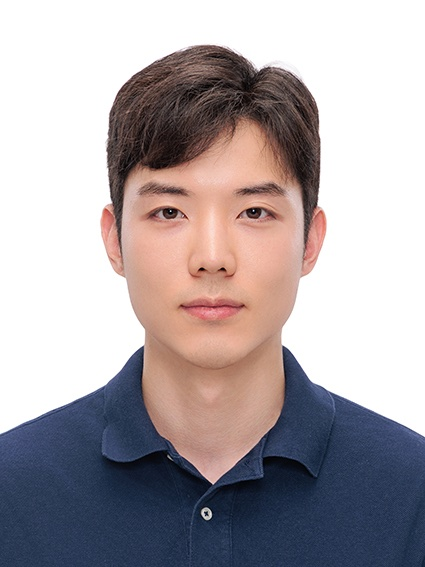
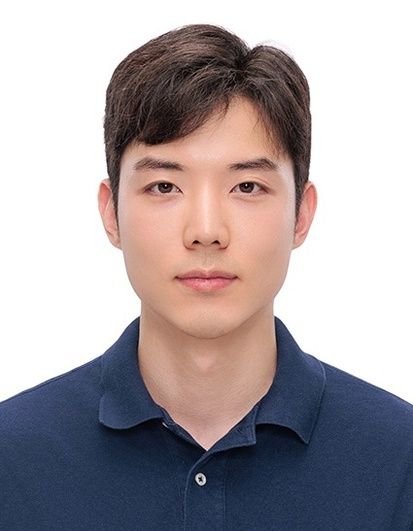
Update: img & members category(ms,interns)

diff --git a/_members/Seongdo_Kim.md b/_members/Seongdo_Kim.md
@@ -2,9 +2,9 @@
 layout: member_profile
 title: Seongdo Kim
 description: Internship 2024-Now
-img: assets/img/icon.png # assets/img/members/profile_jykim.jpg
-# importance: 1
-category: Students
+img: assets/img/members/profile_sdkim.jpg # assets/img/members/profile_jykim.jpg
+importance: 1
+category: Undergraduate research interns
 related_publications: false
 
 profile:

diff --git a/_members/Wooyeol_Baek.md b/_members/Wooyeol_Baek.md
@@ -3,8 +3,8 @@ layout: member_profile
 title: Wooyeol Baek
 description: Internship 2024-Now
 img: assets/img/members/profile_wybaek.jpg # assets/img/members/profile_jykim.jpg
-# importance: 1
-category: Students
+importance: 3
+category: Undergraduate research interns
 related_publications: false
 
 profile:

diff --git a/_members/Semin_Kim.md b/_members/Semin_Kim.md
@@ -3,8 +3,8 @@ layout: member_profile
 title: Semin Kim
 description: Internship 2024-Now
 img: assets/img/members/profile_smkim.jpg # assets/img/members/profile_jykim.jpg
-# importance: 1
-category: Students
+importance: 2
+category: Undergraduate research interns
 related_publications: false
 
 profile:

diff --git a/_members/Lee.md b/_members/Lee.md
@@ -1,10 +1,10 @@
 ---
 layout: member_profile
 title: 현수 Lee
-description: MS 2024-Now
+description: MS 2025-Now
 img: assets/img/icon.png # assets/img/members/profile_jykim.jpg
-# importance: 1
-category: Students
+importance: 5
+category: MS students
 related_publications: false
 
 profile:

diff --git a/_members/Hyeonjeong_Kim.md b/_members/Hyeonjeong_Kim.md
@@ -3,8 +3,8 @@ layout: member_profile
 title: Hyeonjeong Kim
 description: MS 2025-Now
 img: assets/img/members/profile_hjkim.jpg # assets/img/members/profile_jykim.jpg
-# importance: 1
-category: Students
+importance: 2
+category: MS students
 related_publications: false
 
 profile:

diff --git a/_members/Hankyeol_Lee.md b/_members/Hankyeol_Lee.md
@@ -3,8 +3,8 @@ layout: member_profile
 title: Hankyeol Lee
 description: MS 2025-Now
 img: assets/img/members/profile_hklee.jpg # assets/img/members/profile_jykim.jpg
-# importance: 1
-category: Students
+importance: 4
+category: MS students
 related_publications: false
 
 profile:

diff --git a/_members/Jaegwan_Roh.md b/_members/Jaegwan_Roh.md
@@ -3,8 +3,8 @@ layout: member_profile
 title: Jaegwan Roh
 description: MS 2025-Now
 img: assets/img/members/profile_jgroh.jpg # assets/img/members/profile_jykim.jpg
-# importance: 1
-category: Students
+importance: 3
+category: MS students
 related_publications: false
 
 profile:

diff --git a/_members/Jaehoon_Kim.md b/_members/Jaehoon_Kim.md
@@ -3,8 +3,8 @@ layout: member_profile
 title: Jaehoon Kim
 description: MS 2024-Now
 img: assets/img/members/profile_jhkim.jpg # assets/img/members/profile_jykim.jpg
-# importance: 1
-category: Students
+importance: 1
+category: MS students
 related_publications: false
 
 profile:

diff --git a/_pages/members.md b/_pages/members.md
@@ -5,7 +5,7 @@ permalink: /members/
 # description: Members of MMAI Lab.
 nav: true
 nav_order: 7
-display_categories: [PI, Students, Alumni]
+display_categories: [PI, MS students, Undergraduate research interns, Alumni]
 horizontal: false
 ---
 
